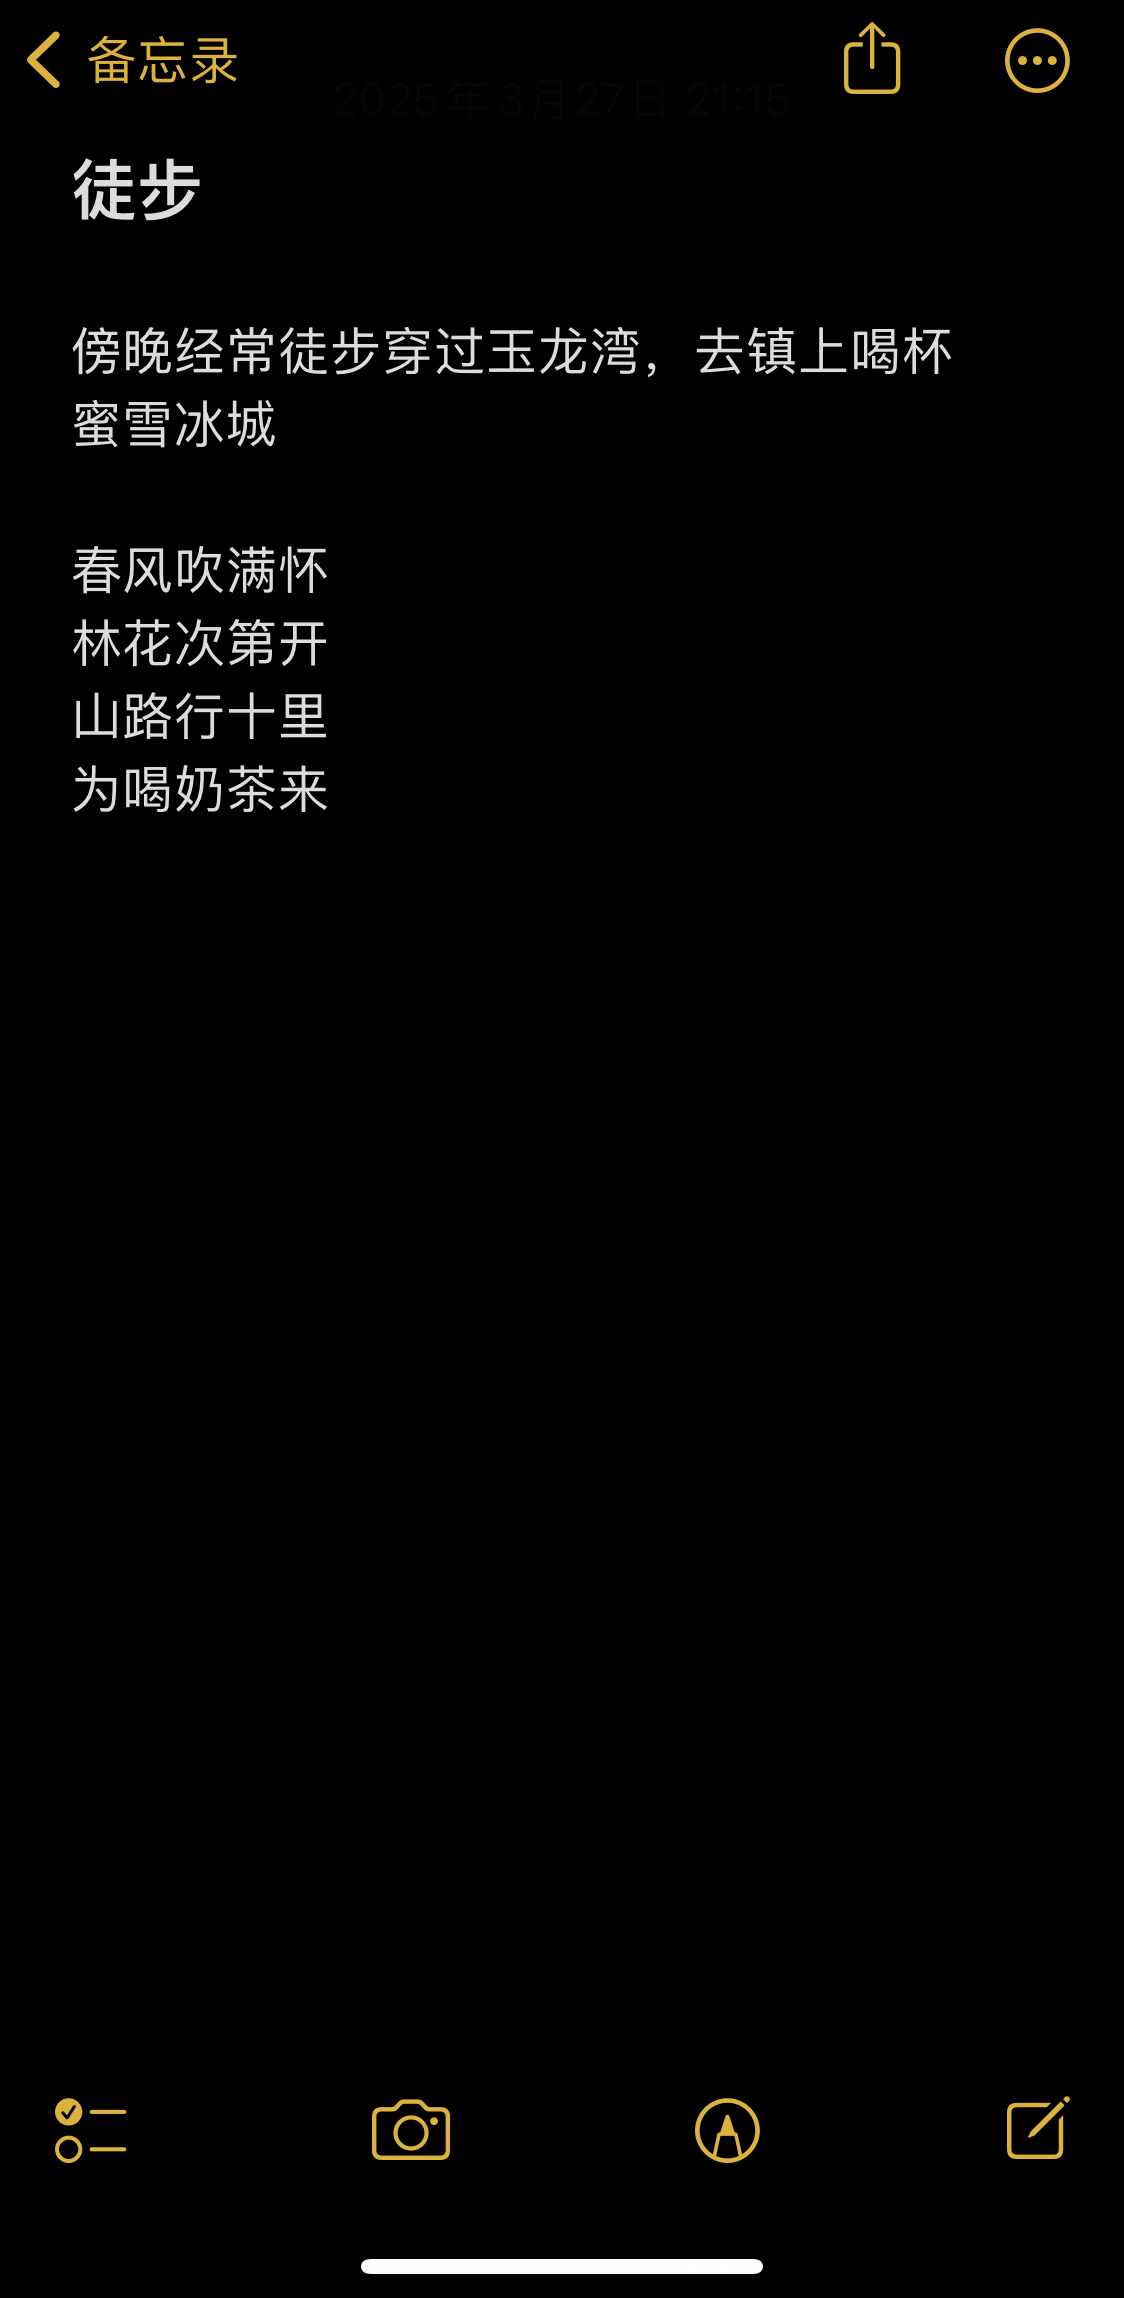
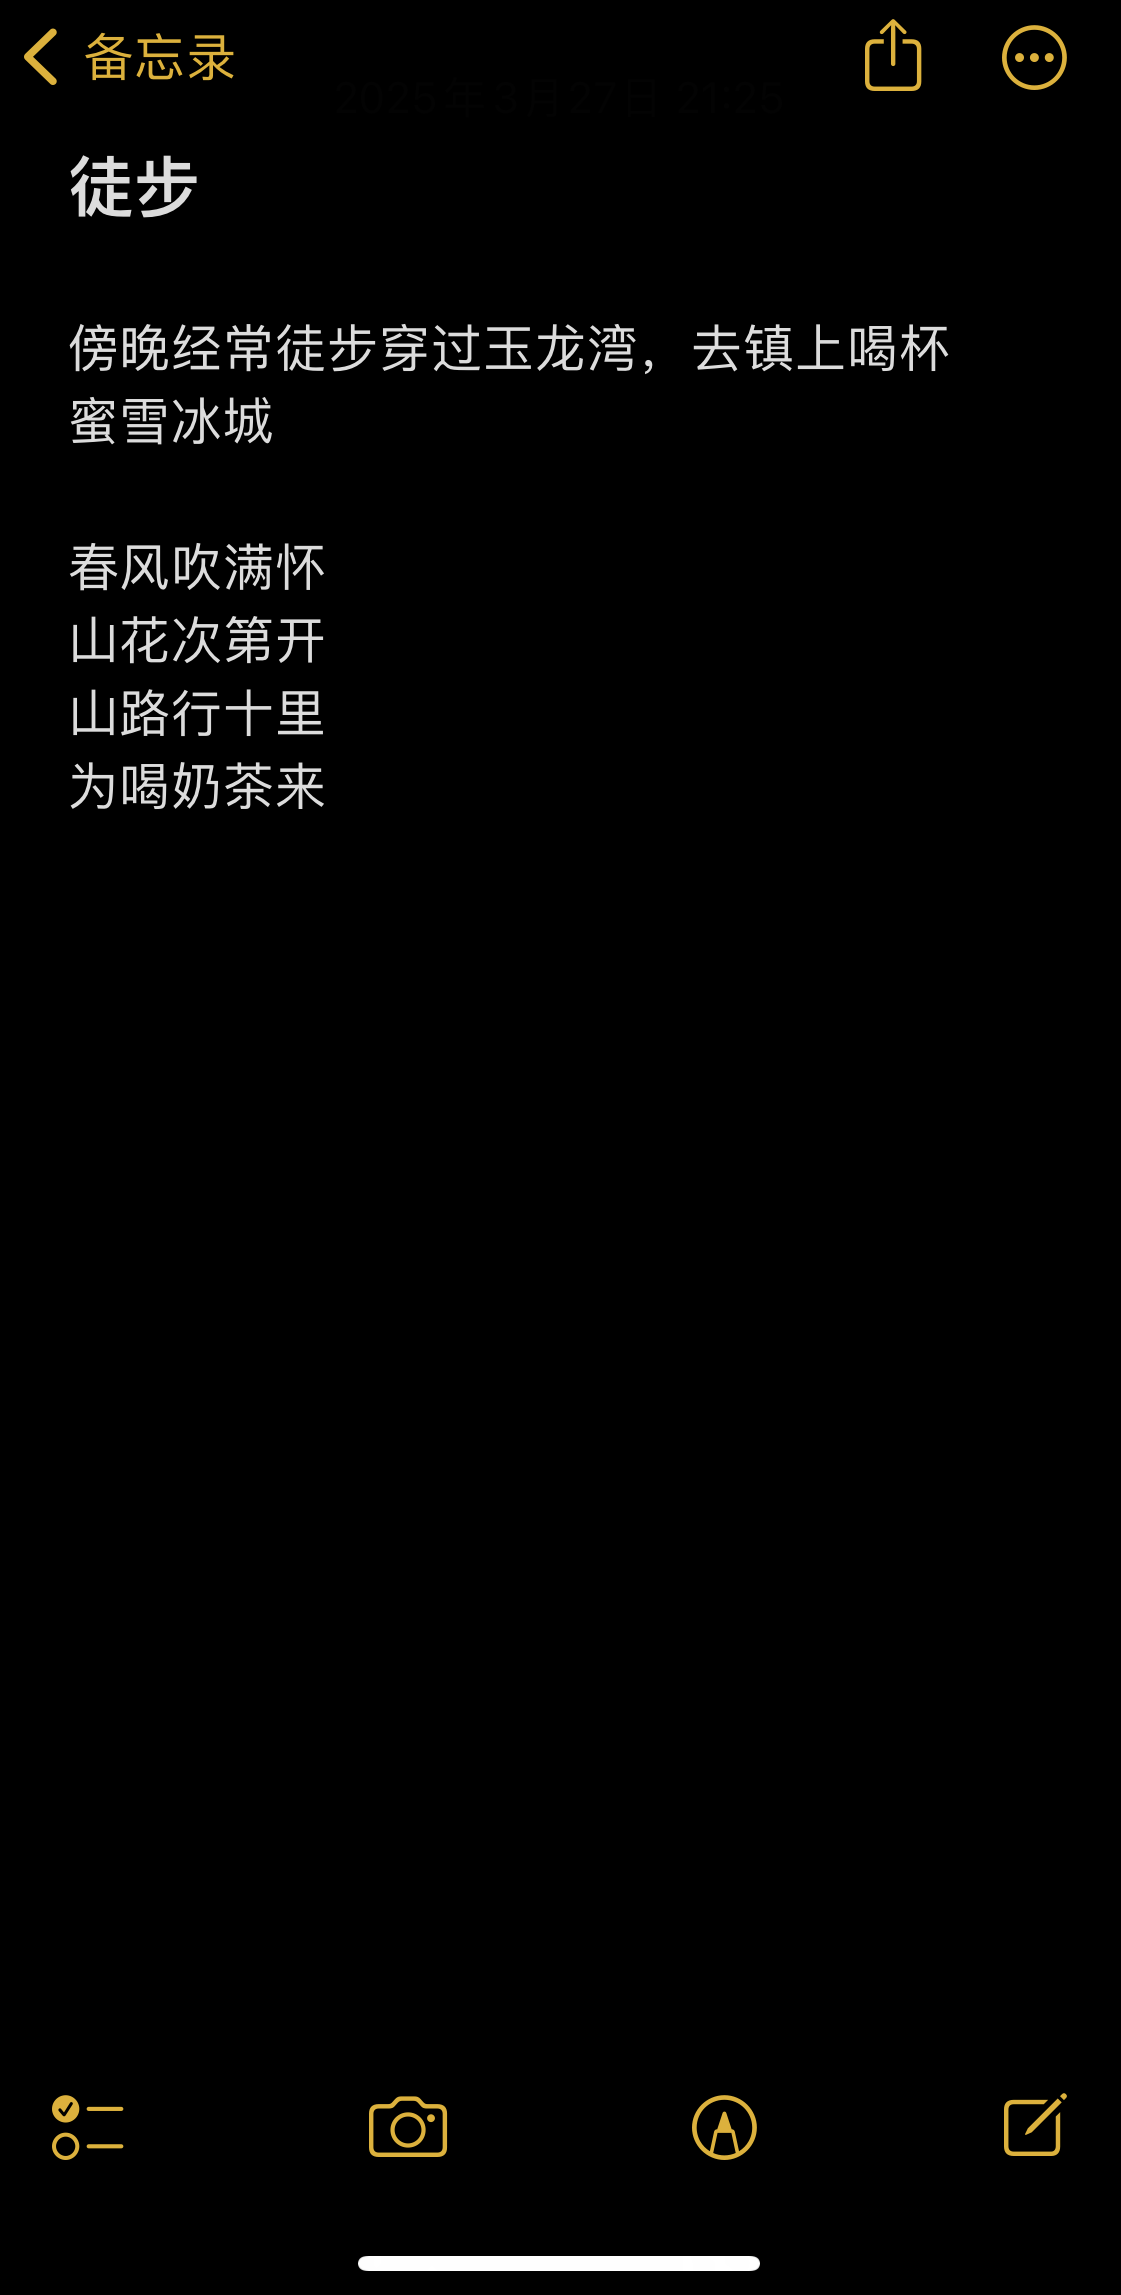
rebuilding site Thu Mar 27 21:26:36 CST 2025

diff --git a/post/诗词/kunming-tubu-1/index.html b/post/诗词/kunming-tubu-1/index.html
@@ -16,7 +16,7 @@
 <meta name="apple-mobile-web-app-status-bar-style" content="#f8f5ec">
 
 
-<meta name="author" content="种瓜" /><meta name="description" content="春风吹满怀 林花次第开 山路行十里 为喝奶茶来" /><meta name="keywords" content="education, programming, Technology" />
+<meta name="author" content="种瓜" /><meta name="description" content="春风吹满怀 山花次第开 山路行十里 为喝奶茶来" /><meta name="keywords" content="education, programming, Technology" />
 
 
 
@@ -40,19 +40,19 @@
 
 
 <meta property="og:title" content="徒步" />
-<meta property="og:description" content="春风吹满怀 林花次第开 山路行十里 为喝奶茶来" />
+<meta property="og:description" content="春风吹满怀 山花次第开 山路行十里 为喝奶茶来" />
 <meta property="og:type" content="article" />
 <meta property="og:url" content="http://wwj718.github.io/post/%E8%AF%97%E8%AF%8D/kunming-tubu-1/" /><meta property="article:section" content="post" />
 <meta property="article:published_time" content="2025-03-27T00:00:00+00:00" />
 <meta property="article:modified_time" content="2025-03-27T00:00:00+00:00" />
 
 <meta itemprop="name" content="徒步">
-<meta itemprop="description" content="春风吹满怀 林花次第开 山路行十里 为喝奶茶来"><meta itemprop="datePublished" content="2025-03-27T00:00:00+00:00" />
+<meta itemprop="description" content="春风吹满怀 山花次第开 山路行十里 为喝奶茶来"><meta itemprop="datePublished" content="2025-03-27T00:00:00+00:00" />
 <meta itemprop="dateModified" content="2025-03-27T00:00:00+00:00" />
 <meta itemprop="wordCount" content="20">
 <meta itemprop="keywords" content="诗词," /><meta name="twitter:card" content="summary"/>
 <meta name="twitter:title" content="徒步"/>
-<meta name="twitter:description" content="春风吹满怀 林花次第开 山路行十里 为喝奶茶来"/>
+<meta name="twitter:description" content="春风吹满怀 山花次第开 山路行十里 为喝奶茶来"/>
 
 <!--[if lte IE 9]>
   <script src="https://cdnjs.cloudflare.com/ajax/libs/classlist/1.1.20170427/classList.min.js"></script>
@@ -140,7 +140,7 @@
       <img src="/post/img/IMG_3638.PNG" width=350>
 <div style="display:none">
 春风吹满怀
-林花次第开
+山花次第开
 山路行十里
 为喝奶茶来
 </div>

diff --git a/index.html b/index.html
@@ -127,7 +127,7 @@
   
   <div class="post-content">
     <div class="post-summary">
-      春风吹满怀 林花次第开 山路行十里 为喝奶茶来
+      春风吹满怀 山花次第开 山路行十里 为喝奶茶来
     </div>
     <div class="read-more">
       <a href="/post/%E8%AF%97%E8%AF%8D/kunming-tubu-1/" class="read-more-link">阅读更多</a>
